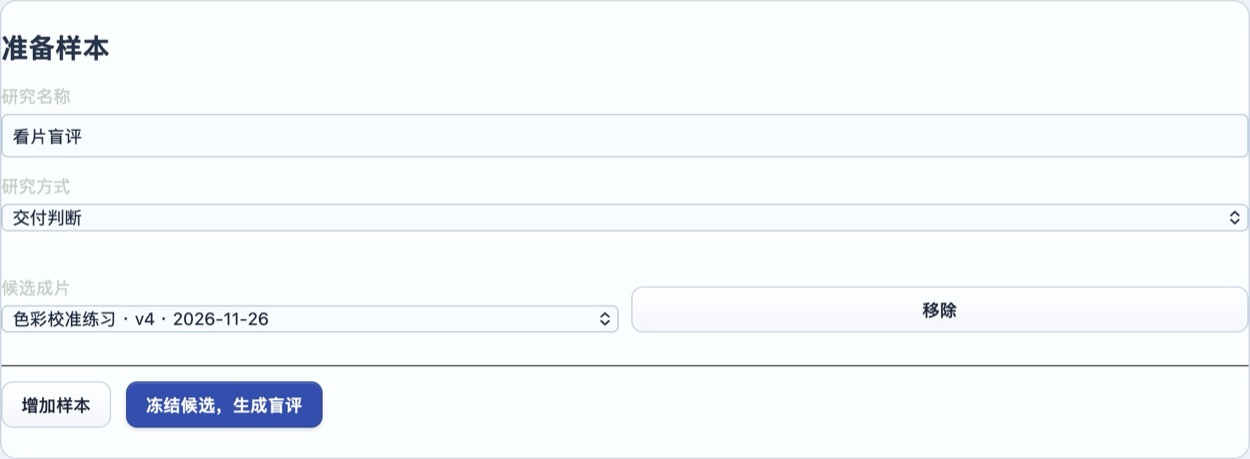
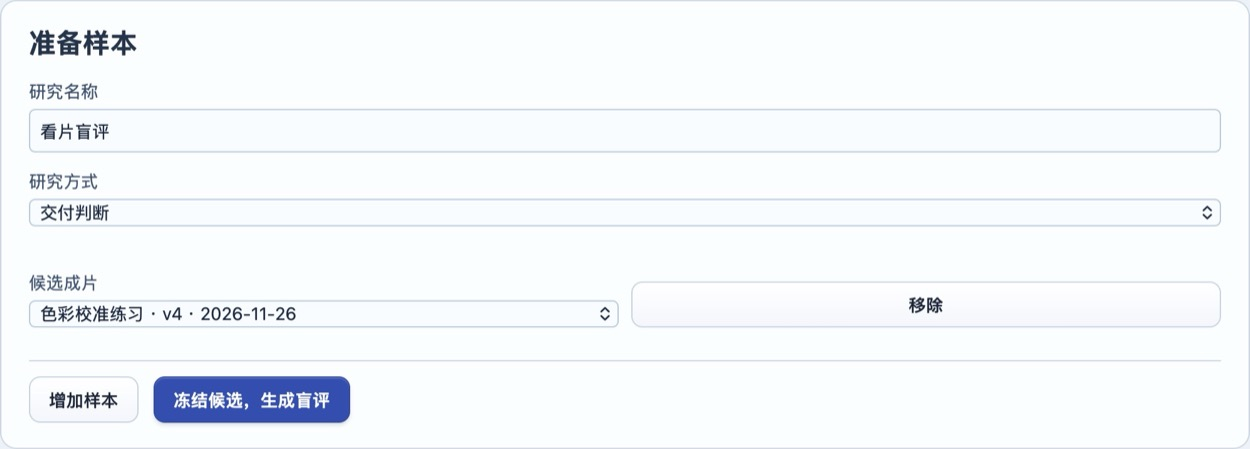
Match screening-room inputs to the frozen-study contract and refresh the native guide images

diff --git a/apps/studio/www/guide-data.js b/apps/studio/www/guide-data.js
@@ -1,19 +1,19 @@
 // Each topic follows a screen, so the same content works offline and in contextual search.
 export const guideTopics=[
- {id:'new',title:'新建工程',intro:'第一次使用时，选起点、写要求、选风格，就可以开始制作。',figure:'new',caption:'先选上方的制作入口。画幅、风格和目标片长在同一行；可选项目收在下方。',groups:[
+ {id:'new',title:'新建工程',intro:'第一次使用时，选起点、写要求、选风格，就可以开始制作。',figure:'new',caption:'先选上方的制作入口。画幅、风格和目标片长在同一行。可选项目收在下方。',groups:[
  ['从什么开始',[
  ['从选题开始','填写想讲的问题、面向谁、要什么效果。工作台可查找来源和可用素材。'],
  ['脚本与素材','把台词粘进「脚本」，在「本地素材」选一个或多个文件。制作要求可同时说明剪法。'],
  ['精剪原片','选择访谈或口播原片，在「制作要求」写要保留的观点或段落。'],
  ['工程名称／选题与制作要求／脚本','名称用于在侧栏找回工程。要求描述本期目标，脚本存放已有台词或分镜。']]],
  ['开剪前的选择',[
- ['画幅／风格／目标片长','选择横屏、竖屏或方形。风格决定叙事、声音和动效参考；目标片长以秒计，可留空。'],
+ ['画幅／风格／目标片长','选择横屏、竖屏或方形。风格决定叙事、声音和动效参考。目标片长以秒计，可留空。'],
  ['最短片长／最大片长','需要硬性范围时展开填写。例如做 60–70 秒，填 60 和 70，目标可填 65。'],
- ['素材范围／出处网页／媒体文件直链','出处页用于查证事实；文件直链指向可读取的媒体。每行一条。在「仅使用工程已有素材」下，先导入本地文件。'],
+ ['素材范围／出处网页／媒体文件直链','出处页用于查证事实。文件直链指向可读取的媒体。每行一条。在「仅使用工程已有素材」下，先导入本地文件。'],
  ['本地素材／原片／本期音色','文件选择器可多选。音色默认跟随风格，也可选已登记的音色。'],
  ['字幕','选择把字幕烧入画面并附 SRT，或只导出独立 SRT。'],
  ['制作前确认分镜与台词','开启后在剪辑台查看分镜，确认后任务继续。'],
- ['分享语音转录／分享画面／自动回看／独立终审','转录文字与画面分别授权。自动回看使用所分享的画面；独立终审另用一个 Codex 回合。'],
+ ['分享语音转录／分享画面／自动回看／独立终审','转录文字与画面分别授权。自动回看使用所分享的画面。独立终审另用一个 Codex 回合。'],
  ['移除已选文件／继续这次创建','移除只从待导入列表取消选择。导入中断后，在已创建的工程点击「继续这次创建」，接着处理剩余素材。'],
  ['仅创建工程／创建并开始制作','前者先进入空工程，后者导入所选素材后开始制作。'],
  ['打开工程文件夹／最近工程','打开本机导出的工程文件夹，或从左栏切回最近使用的工程。']]]]},
@@ -22,37 +22,37 @@ export const guideTopics=[
  ['播放头／时间码／上一帧／下一帧','点击或拖动标尺。时间码可输入帧号或时:分:秒:帧，按回车定位。左右箭头逐帧查看。'],
  ['播放／暂停／全片／放大／缩小','空格从播放头开始播放。＋和－改变时间线比例，「全片」恢复总览。Home / End 跳片头或末帧。'],
  ['吸附／轨道边缘','拖片段中部改位置，拖边缘修剪。N 开关吸附，按住 Option 临时解除。Shift 或 ⌘ 可多选。Option 加左右箭头微移一帧，加 Shift 微移一秒。'],
- ['分割／删除／波纹删除','S 在播放头分割。Delete 留出空隙；Shift + Delete 删除并收拢同轨后续片段。'],
+ ['分割／删除／波纹删除','S 在播放头分割。Delete 留出空隙。Shift + Delete 删除并收拢同轨后续片段。'],
  ['复制／粘贴／撤销／重做','⌘C 复制选区，⌘V 粘贴到播放头。⌘Z 撤销，⇧⌘Z 重做。'],
  ['M／◉／L','M 静音轨道已有音频，◉ 隐藏该轨已有画面，L 锁定轨道内现有片段。再次点击切换。']]],
  ['自动剪辑与插入',[
  ['本次要求／用 Codex 剪辑／用 Codex 改稿','输入选题或修改，例如「把选中镜头提前，保留旁白」。制作中的新指令作用于当前工程。'],
- ['暂停／检查后续作／确认分镜／重新拟定分镜','暂停保留任务进度；恢复前检查回执。分镜等待确认时，可核对台词和源区间，再继续或重拟。'],
- ['生成本地草稿／生成预览／预览当前片段／导出成片','本地草稿按现有材料粗剪；预览用于检查。导出后到「交付」打开文件。'],
- ['插入素材／字幕／动效','先定位播放头，选素材再插入。字幕新增可编辑文字层；动效菜单列出可执行组件。'],
+ ['暂停／检查后续作／确认分镜／重新拟定分镜','暂停保留任务进度。恢复前检查回执。分镜等待确认时，可核对台词和源区间，再继续或重拟。'],
+ ['生成本地草稿／生成预览／预览当前片段／导出成片','本地草稿按现有材料粗剪。预览用于检查。导出后到「交付」打开文件。'],
+ ['插入素材／字幕／动效','先定位播放头，选素材再插入。字幕新增可编辑文字层。动效菜单列出可执行组件。'],
  ['选中片段／检查器','点时间线片段或从「选中片段」定位，下面会显示该片段适用的参数。']]]]},
  {id:'inspector',title:'片段与动效',intro:'先选片段，再展开对应的工具。普通数值修改用「保存片段」，分割、静音和锁定会立即提交。',figure:'inspector',caption:'选中片段后，检查器显示其片段名、入点和长度。不同轨道提供的工具有所不同。',groups:[
  ['片段与画面',[
  ['起点／长度／原片入点／速率／音量','起点是工程上的位置，原片入点是读取源素材的位置，两者均以秒计。长度控制占用时间，速率 1 是原速，音量 1 是原音量。'],
  ['音频轨道／静音片段／恢复原声','独立音频可选择旁白或配乐轨。静音立即关闭该片段声音，再点恢复。'],
  ['锁定片段／解锁片段／查看原片区间','锁定保护已有编辑。查看原片可核对来源与原时间码。'],
- ['移除片段／在播放头处分割／保存片段','移除从时间线取走该片段；分割保留前后两段；保存提交当前检查器数值。'],
+ ['移除片段／在播放头处分割／保存片段','移除从时间线取走该片段。分割保留前后两段。保存提交当前检查器数值。'],
  ['画面窗口／距左／距顶／宽度／高度／窗口内取景','开独立窗口后，以画布比例指定位置和大小。完整显示保留全部画面，裁满窗口会裁去部分边缘。'],
  ['右窗素材／将镜头并排','选第二个画面素材后生成左右分屏，两段分别可选。'],
  ['原素材取景／水平中心／垂直中心／放大倍率','设置首帧和末帧的取景中心与缩放，形成推近或移动。中心使用 0–1。'],
  ['替换画面素材／入场方式／转场时长','替换所用原片，选择叠化或其他入场效果，以帧为单位设置持续时间。'],
- ['动作震屏／新增／移除','动作落点和时长用帧；强度、频率、缩放起伏、放大和旋转幅度控制震动。保存片段后生效。']]],
+ ['动作震屏／新增／移除','动作落点和时长用帧。强度、频率、缩放起伏、放大和旋转幅度控制震动。保存片段后生效。']]],
  ['文字与组件',[
  ['文字／轮廓顶点／水平位置／垂直位置／字号','编辑普通字幕或图层文案。位置是画布比例，字号是像素。多边形的顶点以图层内归一化坐标记录。'],
  ['图层位置与关键帧','每个关键帧对应片段内的一帧，可设置位置、缩放、透明度和旋转角度。'],
- ['眉题／标题／副标题／第一句至第三句／说明／左右标识／来源','编辑所选组件的各个文字层。来源标签用于画面角标；环绕词用中点分隔。'],
- ['字号／字体／描边色／强调色／文字颜色／光晕色／透明底','只影响该组件。首个强调字符序号定位重点，强调字符数定长度；倾角和裂字调整造型。'],
+ ['眉题／标题／副标题／第一句至第三句／说明／左右标识／来源','编辑所选组件的各个文字层。来源标签用于画面角标。环绕词用中点分隔。'],
+ ['字号／字体／描边色／强调色／文字颜色／光晕色／透明底','只影响该组件。首个强调字符序号定位重点，强调字符数定长度。倾角和裂字调整造型。'],
  ['第几步／增加切换／移除末次切换','滑块指定片段内的出场帧，第一步固定在开头。支持多次切换的来源组件可增减切换。'],
- ['动作音效／声音素材／动效位置和尺寸','选音效资源并决定是否落在动作帧；组件中心、宽度和高度按画布比例设置。'],
+ ['动作音效／声音素材／动效位置和尺寸','选音效资源并决定是否落在动作帧。组件中心、宽度和高度按画布比例设置。'],
  ['保存并预览落点','写入组件参数并打开对应区间，检查字、动作和声音是否同拍。']]]]},
  {id:'advanced',title:'蒙版、关键帧与变速',intro:'选中时间线里的画面、字幕或图形，在检查器展开「高级剪辑」。先预设形状或打点，点击「应用到时间线」再播放当前合成。',figure:'advanced',caption:'在时间曲线中，横向是片段时间，纵向是经过的原片帧数。线段越陡，播放越快。',groups:[
  ['在画面上露出下层',[
- ['画面蒙版／矩形／椭圆／移除蒙版','给上层视频或图片选形状。形状外显露下层；下层没有画面时显示背景。'],
+ ['画面蒙版／矩形／椭圆／移除蒙版','给上层视频或图片选形状。形状外显露下层。下层没有画面时显示背景。'],
  ['水平中心／垂直中心／蒙版宽度／蒙版高度／羽化／反选区域','拖中心点移动，拖角点改大小。羽化软化边缘，反选切换保留内侧还是外侧。']]],
  ['为镜头或图层打点',[
  ['镜头取景关键帧／恢复默认取景','在不同帧设置取景中心和倍率，控制素材在画面里平移或推近。'],
@@ -62,15 +62,15 @@ export const guideTopics=[
  ['时间曲线／先慢后快／先快后慢／恢复恒速','给视频套用速度预设，或自行调整锚点。拖动锚点可在 0.125–8 倍范围内分段变速。整段时长和首尾原片位置固定，同期声跟随曲线并保持音高。'],
  ['在播放头加锚点／移除锚点／片段帧／原片距离','片段帧是横轴，原片距离从入点起算。拖内点，或填写两个数值，改变两侧的速度。'],
  ['应用到时间线／撤销未应用修改／载入当前版本','应用提交到工程，可用时间线撤销恢复。撤销未应用修改只丢弃面板里的草稿。另一处已改过同一参数时，先核对版本。']]]]},
- {id:'assets',title:'素材与原句',intro:'这里存放工程使用的原片、音频和出处。先导入素材，然后按需要转录、定位或加入时间线。',figure:'assets',caption:'左侧管理工程已有素材；右侧可检索来源、导入文件直链或恢复转录原句。',groups:[
+ {id:'assets',title:'素材与原句',intro:'这里存放工程使用的原片、音频和出处。先导入素材，然后按需要转录、定位或加入时间线。',figure:'assets',caption:'左侧管理工程已有素材。右侧可检索来源、导入文件直链或恢复转录原句。',groups:[
  ['添加和核实',[
- ['选择文件／从历史工程导入','选择本机媒体；历史入口可取回之前登记的素材或成片。'],
+ ['选择文件／从历史工程导入','选择本机媒体。历史入口可取回之前登记的素材或成片。'],
  ['查找并手动选择源录像／查找候选','输入关键词检索。选择候选、填写原片起止秒数并确认使用权后，将所选窗口导入。'],
  ['媒体文件直链／来源与授权说明／导入工程','填写实际媒体地址，记录作者、出处或授权说明，然后导入。'],
  ['预览／加入时间线／转录','预览播放源文件，加入时间线在播放头插入，转录从有声素材生成带时间码的原句。'],
  ['听原句／恢复','试听原来的说话区间，或把该区间加回工程。'],
  ['打开出处／查看来源画面／登记动作帧','在事实条目核实来源。预览原片时停在动作发生处，输入事件名称并登记当前帧。']]]]},
- {id:'style',title:'风格库',intro:'热点资讯和技术科普各有一套当前风格。先看片段、听声音，再将风格用于本工程。',figure:'style',caption:'左边切换和查看参考；右边把本期镜头的动作时刻填进场景模板。',groups:[
+ {id:'style',title:'风格库',intro:'热点资讯和技术科普各有一套当前风格。先看片段、听声音，再将风格用于本工程。',figure:'style',caption:'左边切换和查看参考。右边把本期镜头的动作时刻填进场景模板。',groups:[
  ['选用和参考',[
  ['浏览风格／用于本工程','浏览只更新当前展示。点击「用于本工程」后更改本期绑定。'],
  ['看片段／查看参考帧／查看文字／试听','逐项打开随风格提供的画面、脚本、剪辑说明或音频。'],
@@ -81,10 +81,10 @@ export const guideTopics=[
  ['在选区加入可编辑模板','把选定风格的模板应用到本期选区，返回剪辑台检查位置与声音。']]]]},
  {id:'settings',title:'工程设置',intro:'这里修改本期创作要求、声音和授权。文件、按钮和预算分别由对应选择决定。',figure:'settings',caption:'先展开要调整的一组。旁白和配乐可以分别跟随风格或使用本片设置。',groups:[
  ['创作与声音',[
- ['名称／制作要求／原始脚本／素材范围／字幕／片长','名称显示在工程列表，脚本存原文。素材范围控制外部检索；目标、最短和最长片长共同约束剪辑。'],
+ ['名称／制作要求／原始脚本／素材范围／字幕／片长','名称显示在工程列表，脚本存原文。素材范围控制外部检索。目标、最短和最长片长共同约束剪辑。'],
  ['本期旁白选择／声音','跟随风格，或指定保留同期声、系统配音、Dylan、导入旁白或本地克隆。试听候选用于核对声音。'],
- ['导入旁白／参考录音／参考录音的准确原文／授权','导入模式选择已有音频直接做旁白；克隆模式选已授权的参考录音并填写原文，勾选授权。'],
- ['试听当前音色／使用已登记的音色／用于本工程／给参考音色取名／登记参考录音','试听会先保存声音设置。选已有音色可用于当前工程；新音色需录音、准确原文、授权和名称。'],
+ ['导入旁白／参考录音／参考录音的准确原文／授权','导入模式选择已有音频直接做旁白。克隆模式选已授权的参考录音并填写原文，勾选授权。'],
+ ['试听当前音色／使用已登记的音色／用于本工程／给参考音色取名／登记参考录音','试听会先保存声音设置。选已有音色可用于当前工程。新音色需录音、准确原文、授权和名称。'],
  ['本期配乐选择／配乐方式／配乐素材','跟随风格或自选本地曲库、指定素材、原创配乐或关闭。指定素材时选择工程内一条音频。'],
  ['场景模板落点音效','单独控制模板中的短动作声，配乐与旁白可同时存在。']]],
  ['分享、配乐和发布',[
@@ -96,14 +96,14 @@ export const guideTopics=[
  ['保存工程设置','提交本页参数。云配乐的生成、音色登记各有独立执行按钮。']]]]},
  {id:'deliver',title:'交付与审片',intro:'播放冻结的候选版本，检查意见标记的区间。满意后在访达中打开本地交付文件。',figure:'deliver',caption:'每次导出在交付页保留自己的画面、验收记录和文件入口。',groups:[
  ['查看结果',[
- ['导出成片／生成预览','导出当前工程；预览用于检查。任务进度可在剪辑台查看。'],
- ['播放器／审片依据／预览与导出抽检','播放器显示这条记录对应的视频；展开核验详情，查看证据与仍待听看的项目。'],
+ ['导出成片／生成预览','导出当前工程。预览用于检查。任务进度可在剪辑台查看。'],
+ ['播放器／审片依据／预览与导出抽检','播放器显示这条记录对应的视频。展开核验详情，查看证据与仍待听看的项目。'],
  ['播放问题片段／按意见修改','跳至该问题的前后区间。需要处理时，把对应意见交给 Codex 修改。'],
  ['MP4／SRT／可编辑工程','在访达中定位所选交付文件。工程可再次打开继续剪辑。'],
  ['3:4 封面／4:3 封面／发布文案／素材与事实来源／验收记录','显示本次实际生成的附件，各按钮分别定位其文件。']]]]},
- {id:'tools',title:'本机与历史',intro:'从侧栏检查运行组件、连接账号，或取回旧工程的媒体。',figure:'tools',caption:'在左侧栏下方打开本机信息或历史素材；完成后关闭窗口，回到原来的工作位置。',groups:[
+ {id:'tools',title:'本机与历史',intro:'从侧栏检查运行组件、连接账号，或取回旧工程的媒体。',figure:'tools',caption:'在左侧栏下方打开本机信息或历史素材。完成后关闭窗口，回到原来的工作位置。',groups:[
  ['本机与账号',[
- ['本机与账号／安装或准备组件','查看本机剪辑、转录、声音等组件的状态；点击对应的准备按钮安装该功能依赖。'],
+ ['本机与账号／安装或准备组件','查看本机剪辑、转录、声音等组件的状态。点击对应的准备按钮安装该功能依赖。'],
  ['连接 Codex／登录','打开官方登录流程。工作台保留工程自己的后台创作会话。'],
  ['ElevenLabs API 密钥／保存本次连接','输入云配乐服务的密钥，只在本次打开期间使用。实际生成仍需工程授权与时长预算。'],
  ['断开本次连接','移除本次打开期间使用的云配乐凭据，需要时可重新连接。'],
@@ -112,8 +112,8 @@ export const guideTopics=[
  {id:'blind',title:'看片盲评',intro:'冻结要比较的候选，由审片人观看、作答，再汇总判断。',figure:'blind',caption:'选择研究方式后再冻结样本。看片时只显示当前研究需要的判断项。',groups:[
  ['建研究与看片',[
  ['新建盲评／研究名称／研究方式','选择交付判断、风格辨认或配对。研究名称用来在列表中找回本次记录。'],
- ['候选 A／候选 B／预期风格／对照条件／增加样本／移除','按研究方式选择一份或一对候选。记录相同的模型、推理档、需求文本、输入帧指纹和补充条件。'],
+ ['候选 A／候选 B／预期风格／对照条件／增加样本／移除','风格辨认需选择实际风格，并填写题材分组。配对时选择两份不同的候选，工作台一侧使用已导出成片。记录相同的模型、推理档、需求文本、输入帧指纹和补充条件。'],
  ['冻结候选，生成盲评／打开／审片人名称／开始或继续看片','确认样本后冻结文件。审片人以同一名称继续自己的进度。'],
- ['看片判断／画面或听感依据／事实与叙事／镜头选择／声画落点／需要返工之处','边看边写具体依据；配对时分别记录比较维度。'],
+ ['看片判断／画面或听感依据／事实与叙事／镜头选择／声画落点／需要返工之处','边看边写具体依据。配对时分别记录比较维度。'],
  ['问题起点／问题终点／取播放位置／提交此样本','把指针位置取作区间或输入秒数。提交判断后进入下一条，完成后查看进度与报告。']]]]}
 ];

diff --git a/apps/studio/src/blind-ui/app.js b/apps/studio/src/blind-ui/app.js
@@ -3,14 +3,24 @@ const show=(id,yes=true)=>{el(id).hidden=!yes;};
 const setNotice=value=>{el('notice').textContent=value||'';};
 const labels={gate:'交付判断',style:'风格辨认',pair:'前台与工作台配对',usable:'愿意直接用',minor:'愿意用但想小修',redo:'必须重剪',tie:'两版相当',A:'A 版',B:'B 版'};
 const dimensionNames={facts:'事实与叙事',shots:'镜头选择',sync:'声画落点',rework:'需要返工之处'};
-let candidates=[],studies=[],chosen,session,active,loading=false;
+let candidates=[],styleChoices=[],studies=[],chosen,session,active,loading=false;
 const sampleDrafts=new Map(),ballotDrafts=new Map();
 let currentKind='gate',viewer='';
 function updateControls(){
-  const rows=[...el('samples').querySelectorAll('.sample')],pair=el('kind').value==='pair';
-  const complete=rows.length&&rows.every(r=>r.querySelector('.source')?.value&&(!pair||r.querySelector('.comparison')?.value&&r.querySelector('.comparison').value!==r.querySelector('.source').value)&&(!r.querySelector('.expected')||r.querySelector('.expected').value.trim()));
-  el('create').disabled=loading||!el('title').value.trim()||!complete;
-  el('create').title=!el('title').value.trim()?'先填写研究名称。':complete?'':'先填完整样本，配对时选择不同候选。';
+  const rows=[...el('samples').querySelectorAll('.sample')],kind=el('kind').value;
+  let problem=!el('title').value.trim()?'先填写研究名称。':!rows.length?'至少增加一条样本。':'';
+  for(const row of rows){
+    const source=row.querySelector('.source'),other=row.querySelector('.comparison'),first=row.querySelector('.primary-source')?.value;
+    for(const select of [source,other].filter(Boolean)){
+      const needsExport=kind==='pair'&&(select===source?first==='workbench':first==='foreground');
+      for(const option of select.options)option.disabled=needsExport&&option.dataset.imported==='true';
+    }
+    if(!source.value||source.selectedOptions[0]?.disabled)problem||='工作台一侧请选择已经导出的成片。';
+    if(kind==='pair'&&(!other?.value||other.selectedOptions[0]?.disabled||other.value===source.value))problem||='配对时请选择两个不同候选，工作台一侧使用已导出的成片。';
+    if(kind==='style'&&(!row.querySelector('.expected').value||!row.querySelector('.group').value.trim()))problem||='选择实际风格，并填写题材分组。';
+  }
+  el('create').disabled=loading||Boolean(problem);el('create').title=problem;
+  el('add').disabled=loading||rows.length>=100;el('add').title=rows.length>=100?'每项研究最多 100 条样本。':'';
   el('begin').title=el('reviewer').value.trim()?'':'先输入本次使用的审片人代号。';
   el('begin').disabled=loading||!el('reviewer').value.trim();
   const decision=el('decision').value,range=session?.kind==='gate'&&decision==='redo';
@@ -32,17 +42,18 @@ function run(fn) {return async e=>{
 };}
 function make(tag,text='',parent) {const n=document.createElement(tag);n.textContent=text;if(parent)parent.append(n);return n;}
 function control(tag,label,wrapper) {const group=make('label',label,wrapper);const input=document.createElement(tag);group.append(input);return input;}
-function option(select,value,label) {const o=make('option',label,select);o.value=value;}
+function option(select,value,label) {const o=make('option',label,select);o.value=value;return o;}
 function sourcePick(wrapper,label,cls) {
   const select=control('select',label,wrapper);select.className=cls;
-  for(const item of candidates.filter(c=>c.jobId||el('kind').value==='pair')) option(select,item.jobId||item.assetId,item.title+(item.jobId?' · v'+item.revision:' · 已导入视频')+' · '+String(item.createdAt||'').slice(0,10));
+  for(const item of candidates.filter(c=>c.jobId||el('kind').value==='pair')) option(select,item.jobId||item.assetId,item.title+(item.jobId?' · v'+item.revision:' · 已导入视频')+' · '+String(item.createdAt||'').slice(0,10)).dataset.imported=String(!item.jobId);
   return select;
 }
 function sample() {
   const section=make('div','',el('samples'));section.className='sample';
   sourcePick(section,'候选成片','source');
   if(el('kind').value==='style') {
-    control('input','实际风格',section).className='expected';
+    const expected=control('select','实际风格',section);expected.className='expected';option(expected,'','选择实际使用的风格');
+    for(const name of styleChoices)option(expected,name,name);
     control('input','题材组',section).className='group';
   }
   if(el('kind').value==='pair') {
@@ -98,7 +109,7 @@ async function loadSession() {
 }
 el('decision').onchange=()=>show('range',session?.kind==='gate'&&el('decision').value==='redo');
 el('new').onclick=run(async()=>{
-  candidates=await api('/api/blind/candidates');if(!candidates.length) throw Error('请先在工作台完成至少一个可播放的正式候选。');
+  const [sources,styles]=await Promise.all([api('/api/blind/candidates'),api('/api/styles')]);candidates=sources;styleChoices=styles.map(s=>s.name+' v'+s.version);if(!candidates.length) throw Error('请先在工作台完成至少一个可播放的正式候选。');
   rememberBallot();if(!el('setup').hidden)rememberSetup();viewer='';active=null;chosen=null;show('setup');show('screen',false);show('identity',false);show('report',false);renderSetup();
 });
 el('kind').onchange=()=>{rememberSetup();renderSetup();};
@@ -110,7 +121,7 @@ el('create').onclick=run(async()=>{
     const conditions=Object.fromEntries([...row.querySelectorAll('[data-condition]')].map(i=>[i.dataset.condition,i.value]));
     return {...source,expected:row.querySelector('.expected')?.value.trim(),topicGroup:row.querySelector('.group')?.value.trim(),comparisonProjectId:comp?.projectId,comparisonJobId:comp?.jobId,comparisonAssetId:comp?.assetId,primary:row.querySelector('.primary-source')?.value,conditions};
   });
-  const s=await api('/api/blind/studies',{kind:el('kind').value,title:el('title').value,samples});sampleDrafts.clear();el('title').value='看片盲评';await refresh();await choose(s);
+  const s=await api('/api/blind/studies',{kind:el('kind').value,title:el('title').value,samples,choices:el('kind').value==='style'?styleChoices:[]});sampleDrafts.clear();el('title').value='看片盲评';await refresh();await choose(s);
 });
 el('begin').onclick=run(loadSession);
 el('reviewer').addEventListener('input',()=>{if(viewer&&el('reviewer').value.trim()!==viewer){rememberBallot();viewer='';active=null;session=null;show('screen',false);el('movies').replaceChildren();}});
